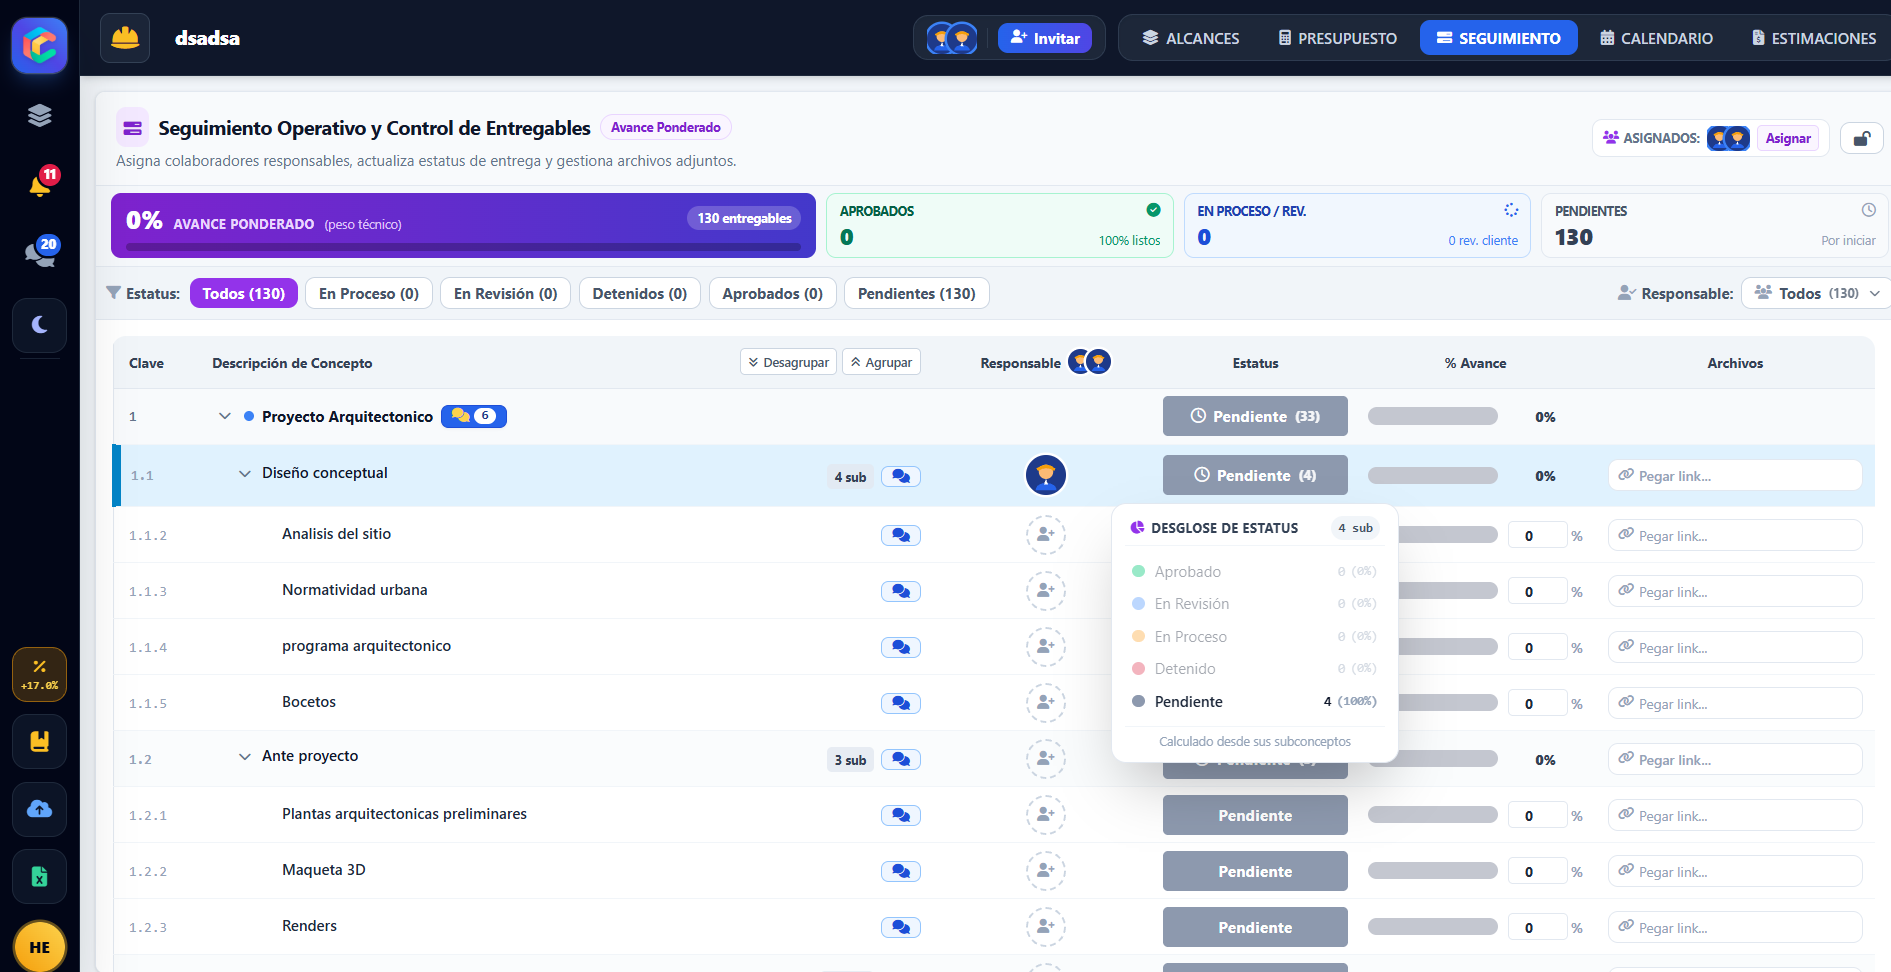
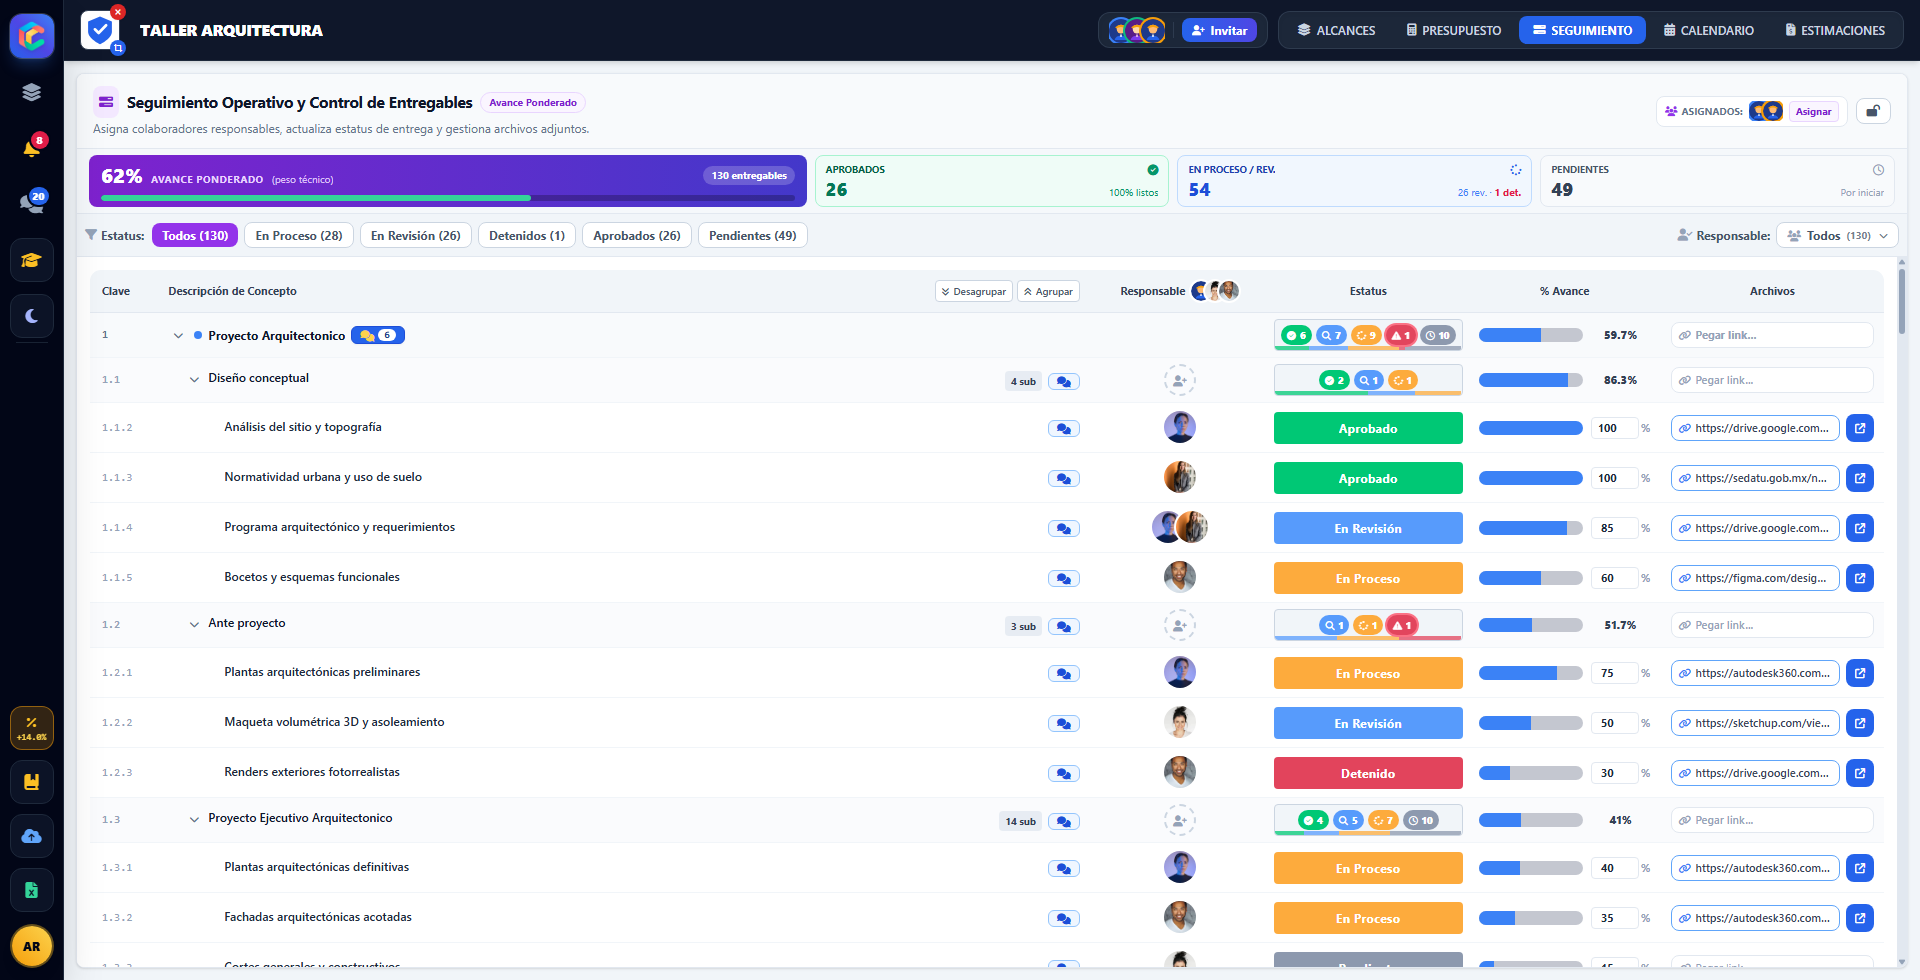
Actualizar imagen Fase 02 Seguimiento Operativo con colaboradores asignados, estatus variados y porcentajes de avance reales

diff --git a/index.html b/index.html
@@ -199,8 +199,8 @@
 
         <!-- Columna 2: Seguimiento Operativo -->
         <div class="lumion-slice-col flex-1 relative group cursor-pointer overflow-hidden border-r border-white/10"
-             onclick="openShowcaseLightbox('assets/images/showcase/hero-app-seguimiento.png', 'Cubikar Arquitectura &bull; Fase 02: Seguimiento Operativo')">
-          <img src="assets/images/showcase/hero-app-seguimiento.png" alt="Seguimiento Operativo" class="w-full h-full object-cover object-left-top transition-transform duration-700">
+             onclick="openShowcaseLightbox('assets/images/showcase/hero-app-seguimiento.png?v=20261115_seguimiento_activo', 'Cubikar Arquitectura &bull; Fase 02: Seguimiento Operativo')">
+          <img src="assets/images/showcase/hero-app-seguimiento.png?v=20261115_seguimiento_activo" alt="Seguimiento Operativo" class="w-full h-full object-cover object-left-top transition-transform duration-700">
           <div class="absolute inset-0 bg-gradient-to-t from-black/90 via-black/30 to-black/10 group-hover:from-black/60 group-hover:via-transparent group-hover:to-transparent transition-all duration-500 pointer-events-none"></div>
           <div class="absolute top-4 right-4 opacity-0 group-hover:opacity-100 transition-opacity duration-300 pointer-events-none z-20">
             <span class="inline-flex items-center gap-1.5 px-3 py-1 rounded-full bg-slate-950/80 backdrop-blur-md border border-cyan-500/30 text-cyan-300 text-[10px] font-semibold shadow-lg">
